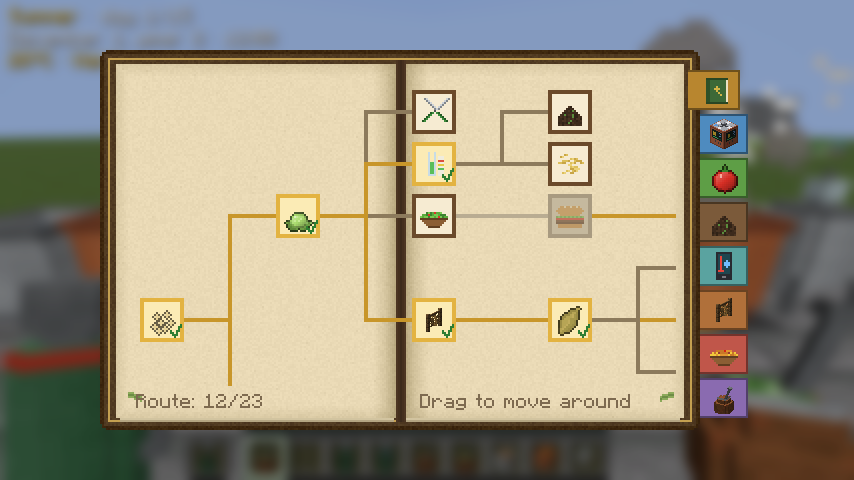
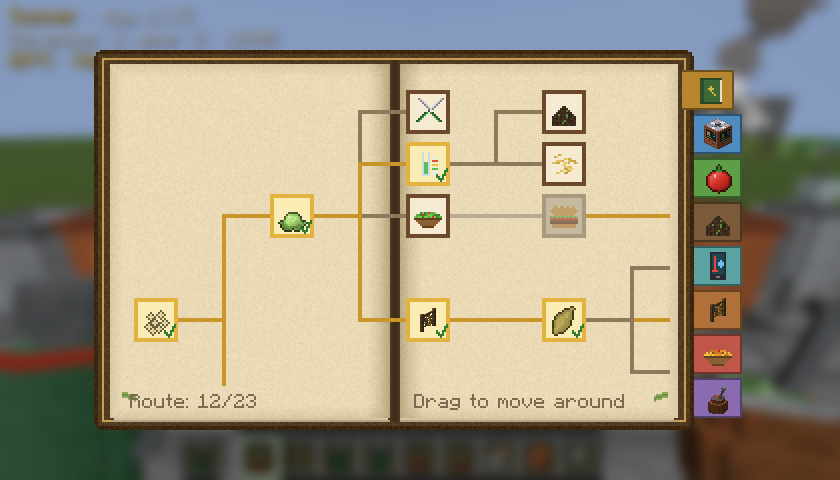
Take screenshots at 840x480 for the CurseForge page

diff --git a/src/gametest/java/io/github/bdkx16/regenerativeagriculture/gametest/client/ScreenshotClientGameTest.java b/src/gametest/java/io/github/bdkx16/regenerativeagriculture/gametest/client/ScreenshotClientGameTest.java
@@ -36,6 +36,8 @@ public class ScreenshotClientGameTest implements FabricClientGameTest {
 
     @Override
     public void runTest(ClientGameTestContext context) {
+        // Under 850 px wide for the CurseForge page; 480 px high keeps the GUI at scale 2
+        context.getInput().resizeWindow(840, 480);
         try (TestSingleplayerContext world = context.worldBuilder().create()) {
             world.getServer().runCommand("time set 6000");
             world.getServer().runCommand("season set winter");
